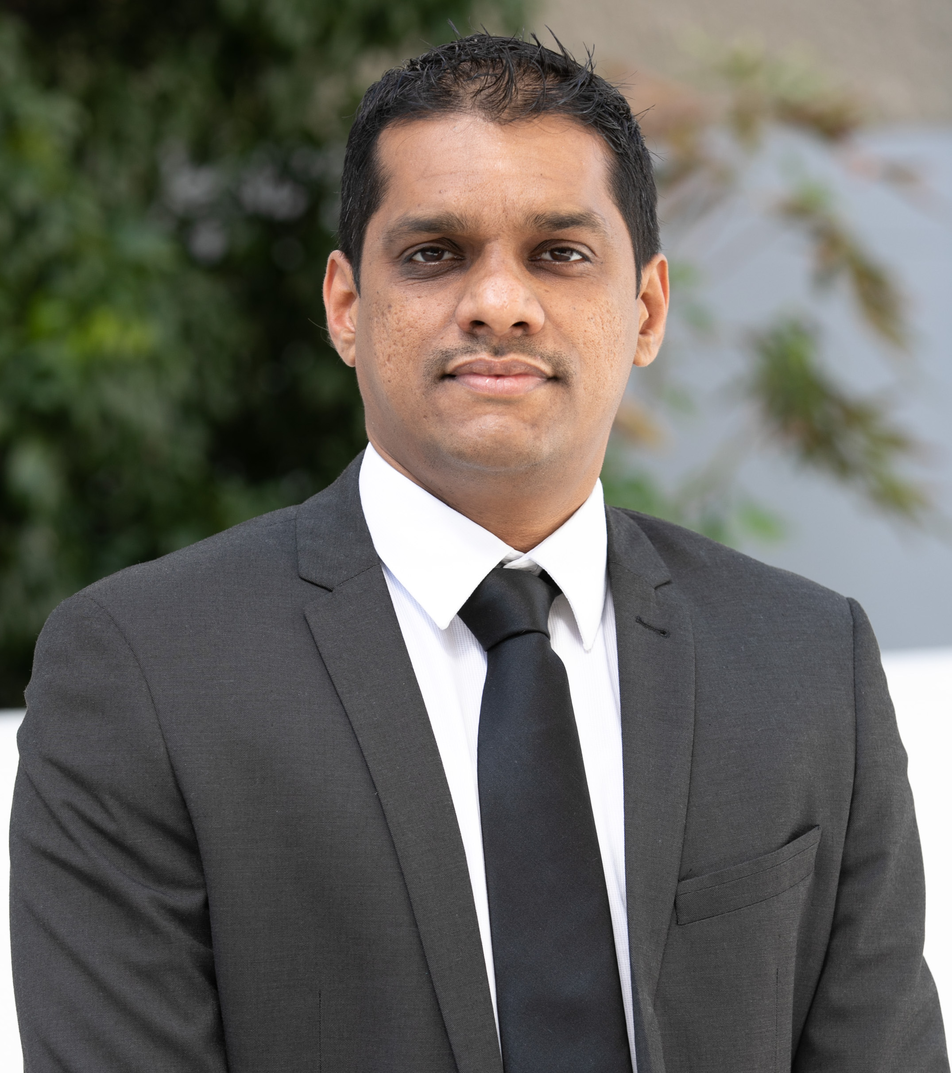
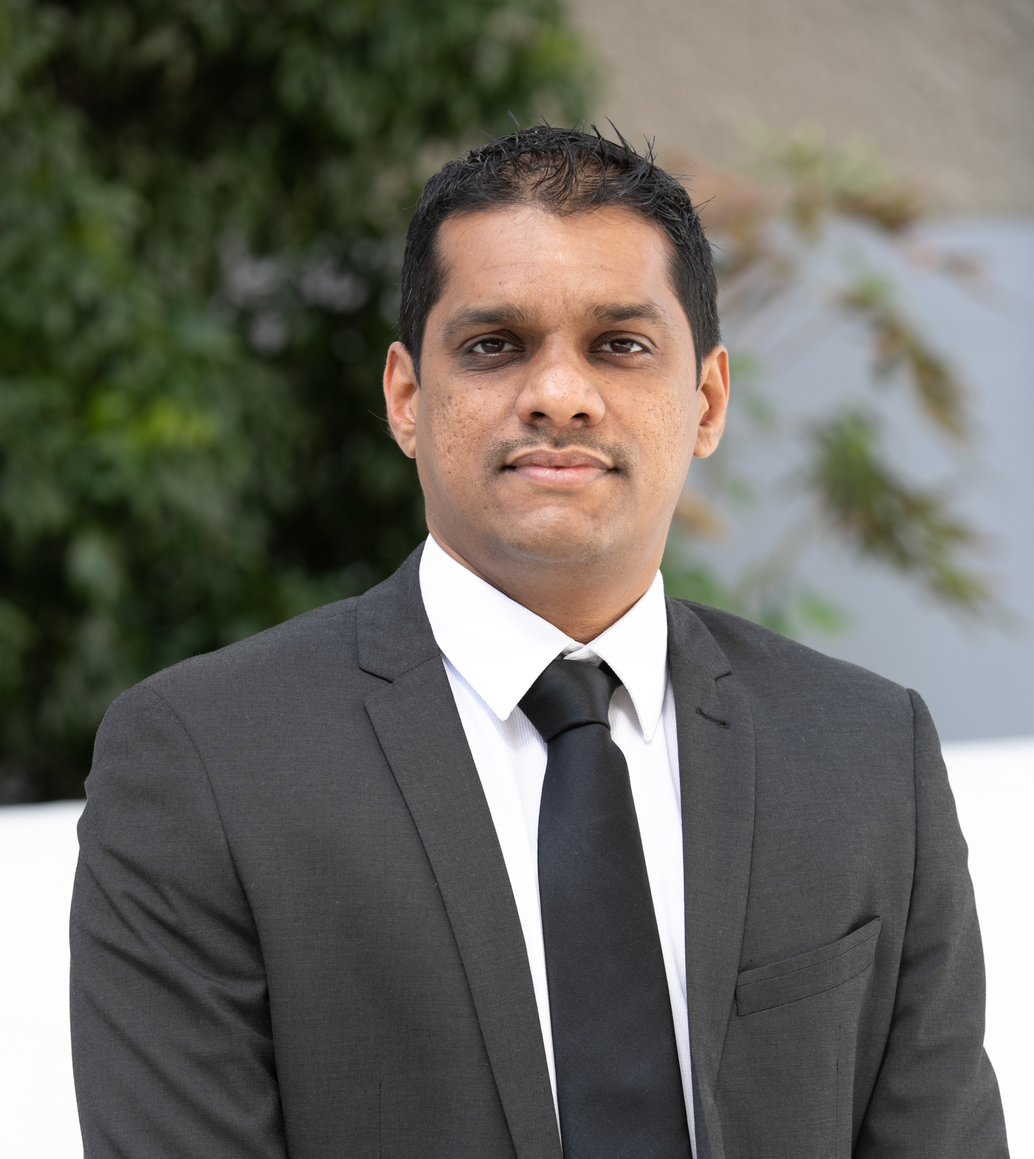
photo push

diff --git a/public/post/2015-07-23-r-rmarkdown/index.html b/public/post/2015-07-23-r-rmarkdown/index.html
@@ -556,7 +556,7 @@ Springer-Verlag New York, 2016.</p>
 <div class="media author-card" itemscope itemtype="http://schema.org/Person">
   
   
-  <img class="portrait mr-3" src="/author/admin/avatar_huc2c481a6ddf24b7df02f6f435c63d284_1100121_250x250_fill_lanczos_center_2.png" itemprop="image" alt="Avatar">
+  <img class="portrait mr-3" src="/author/admin/avatar_huc2c481a6ddf24b7df02f6f435c63d284_1173070_250x250_fill_lanczos_center_2.png" itemprop="image" alt="Avatar">
   
 
   <div class="media-body">

diff --git a/public/post/jupyter/index.html b/public/post/jupyter/index.html
@@ -650,7 +650,7 @@ rm Untitled.md
 <div class="media author-card" itemscope itemtype="http://schema.org/Person">
   
   
-  <img class="portrait mr-3" src="/author/admin/avatar_huc2c481a6ddf24b7df02f6f435c63d284_1100121_250x250_fill_lanczos_center_2.png" itemprop="image" alt="Avatar">
+  <img class="portrait mr-3" src="/author/admin/avatar_huc2c481a6ddf24b7df02f6f435c63d284_1173070_250x250_fill_lanczos_center_2.png" itemprop="image" alt="Avatar">
   
 
   <div class="media-body">

diff --git a/public/post/getting-started/index.html b/public/post/getting-started/index.html
@@ -926,7 +926,7 @@
 <div class="media author-card" itemscope itemtype="http://schema.org/Person">
   
   
-  <img class="portrait mr-3" src="/author/admin/avatar_huc2c481a6ddf24b7df02f6f435c63d284_1100121_250x250_fill_lanczos_center_2.png" itemprop="image" alt="Avatar">
+  <img class="portrait mr-3" src="/author/admin/avatar_huc2c481a6ddf24b7df02f6f435c63d284_1173070_250x250_fill_lanczos_center_2.png" itemprop="image" alt="Avatar">
   
 
   <div class="media-body">

diff --git a/public/project/external-project/index.html b/public/project/external-project/index.html
@@ -634,7 +634,7 @@
 <div class="media author-card" itemscope itemtype="http://schema.org/Person">
   
   
-  <img class="portrait mr-3" src="/author/admin/avatar_huc2c481a6ddf24b7df02f6f435c63d284_1100121_250x250_fill_lanczos_center_2.png" itemprop="image" alt="Avatar">
+  <img class="portrait mr-3" src="/author/admin/avatar_huc2c481a6ddf24b7df02f6f435c63d284_1173070_250x250_fill_lanczos_center_2.png" itemprop="image" alt="Avatar">
   
 
   <div class="media-body">

diff --git a/public/project/internal-project/index.html b/public/project/internal-project/index.html
@@ -671,7 +671,7 @@
 <div class="media author-card" itemscope itemtype="http://schema.org/Person">
   
   
-  <img class="portrait mr-3" src="/author/admin/avatar_huc2c481a6ddf24b7df02f6f435c63d284_1100121_250x250_fill_lanczos_center_2.png" itemprop="image" alt="Avatar">
+  <img class="portrait mr-3" src="/author/admin/avatar_huc2c481a6ddf24b7df02f6f435c63d284_1173070_250x250_fill_lanczos_center_2.png" itemprop="image" alt="Avatar">
   
 
   <div class="media-body">

diff --git a/public/publication/conference-paper/index.html b/public/publication/conference-paper/index.html
@@ -853,7 +853,7 @@
 <div class="media author-card" itemscope itemtype="http://schema.org/Person">
   
   
-  <img class="portrait mr-3" src="/author/admin/avatar_huc2c481a6ddf24b7df02f6f435c63d284_1100121_250x250_fill_lanczos_center_2.png" itemprop="image" alt="Avatar">
+  <img class="portrait mr-3" src="/author/admin/avatar_huc2c481a6ddf24b7df02f6f435c63d284_1173070_250x250_fill_lanczos_center_2.png" itemprop="image" alt="Avatar">
   
 
   <div class="media-body">

diff --git a/public/publication/journal-article/index.html b/public/publication/journal-article/index.html
@@ -748,7 +748,7 @@
 <div class="media author-card" itemscope itemtype="http://schema.org/Person">
   
   
-  <img class="portrait mr-3" src="/author/admin/avatar_huc2c481a6ddf24b7df02f6f435c63d284_1100121_250x250_fill_lanczos_center_2.png" itemprop="image" alt="Avatar">
+  <img class="portrait mr-3" src="/author/admin/avatar_huc2c481a6ddf24b7df02f6f435c63d284_1173070_250x250_fill_lanczos_center_2.png" itemprop="image" alt="Avatar">
   
 
   <div class="media-body">

diff --git a/public/publication/preprint/index.html b/public/publication/preprint/index.html
@@ -695,7 +695,7 @@
 <div class="media author-card" itemscope itemtype="http://schema.org/Person">
   
   
-  <img class="portrait mr-3" src="/author/admin/avatar_huc2c481a6ddf24b7df02f6f435c63d284_1100121_250x250_fill_lanczos_center_2.png" itemprop="image" alt="Avatar">
+  <img class="portrait mr-3" src="/author/admin/avatar_huc2c481a6ddf24b7df02f6f435c63d284_1173070_250x250_fill_lanczos_center_2.png" itemprop="image" alt="Avatar">
   
 
   <div class="media-body">

diff --git a/public/talk/example/index.html b/public/talk/example/index.html
@@ -702,7 +702,7 @@
 <div class="media author-card" itemscope itemtype="http://schema.org/Person">
   
   
-  <img class="portrait mr-3" src="/author/admin/avatar_huc2c481a6ddf24b7df02f6f435c63d284_1100121_250x250_fill_lanczos_center_2.png" itemprop="image" alt="Avatar">
+  <img class="portrait mr-3" src="/author/admin/avatar_huc2c481a6ddf24b7df02f6f435c63d284_1173070_250x250_fill_lanczos_center_2.png" itemprop="image" alt="Avatar">
   
 
   <div class="media-body">

diff --git a/public/authors/admin/index.html b/public/authors/admin/index.html
@@ -357,7 +357,7 @@
 
       
       
-      <img class="portrait" src="/author/admin/avatar_huc2c481a6ddf24b7df02f6f435c63d284_1100121_250x250_fill_lanczos_center_2.png" itemprop="image" alt="Avatar">
+      <img class="portrait" src="/author/admin/avatar_huc2c481a6ddf24b7df02f6f435c63d284_1173070_250x250_fill_lanczos_center_2.png" itemprop="image" alt="Avatar">
       
 
       <div class="portrait-title">

diff --git a/public/index.html b/public/index.html
@@ -388,7 +388,7 @@
 
       
       
-      <img class="portrait" src="/author/admin/avatar_huc2c481a6ddf24b7df02f6f435c63d284_1100121_250x250_fill_lanczos_center_2.png" itemprop="image" alt="Avatar">
+      <img class="portrait" src="/author/admin/avatar_huc2c481a6ddf24b7df02f6f435c63d284_1173070_250x250_fill_lanczos_center_2.png" itemprop="image" alt="Avatar">
       
 
       <div class="portrait-title">
